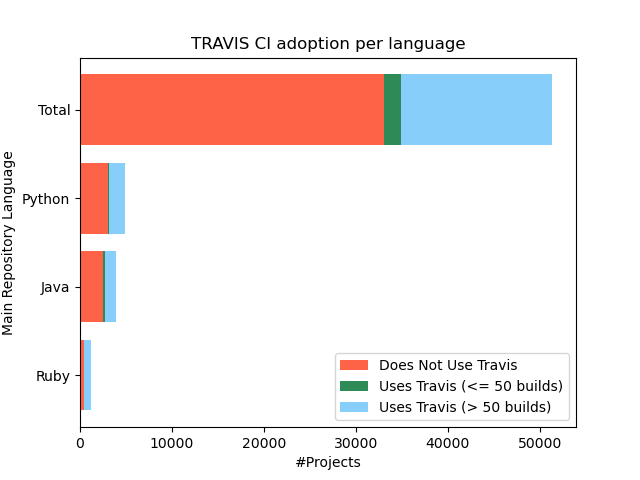
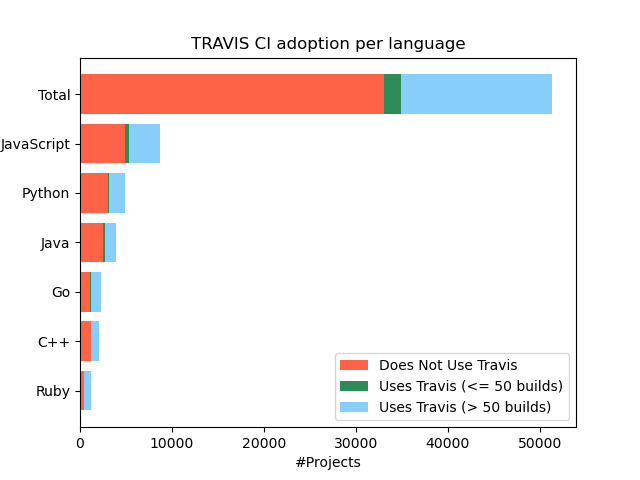
add ruby into top5 output

Changed region(s): [[0.0, 0.1875, 0.875, 0.7188], [0.0625, 0.4375, 0.2188, 0.7812], [0.0625, 0.75, 0.125, 0.8438]]

diff --git a/plot_travis_ci.py b/plot_travis_ci.py
@@ -27,12 +27,13 @@ with open(filename) as csv_file:
 
 
 language_list = list(language_dict.items())
-# language_list = list(filter(lambda item: item[0] != '\\N', language_list))
-language_list = list(filter(lambda item: item[0] in selected_languages, language_list))
+language_list = list(filter(lambda item: item[0] != '\\N', language_list))
+# language_list = list(filter(lambda item: item[0] in selected_languages, language_list))
 language_list.sort(key=lambda e: sum(e[1]))
-# language_list = language_list[-6:]
+selected_language_list = list(filter(lambda item: item[0] == 'Ruby', language_list)) + language_list[-6:]
+print(selected_language_list)
 
-sorted_language = np.array(language_list, dtype=object)
+sorted_language = np.array(selected_language_list, dtype=object)
 x = sorted_language[:, 0]
 y = np.array([k for k in sorted_language[:, 1]])
 no_travis = y[:, 0]
